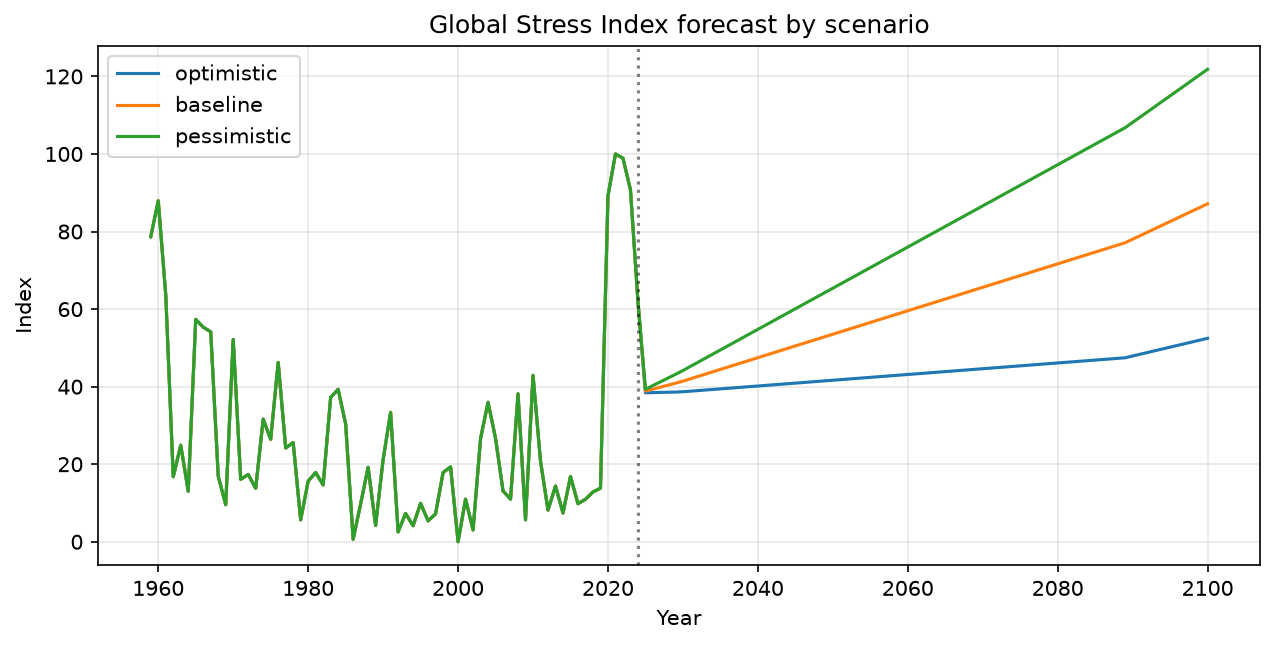
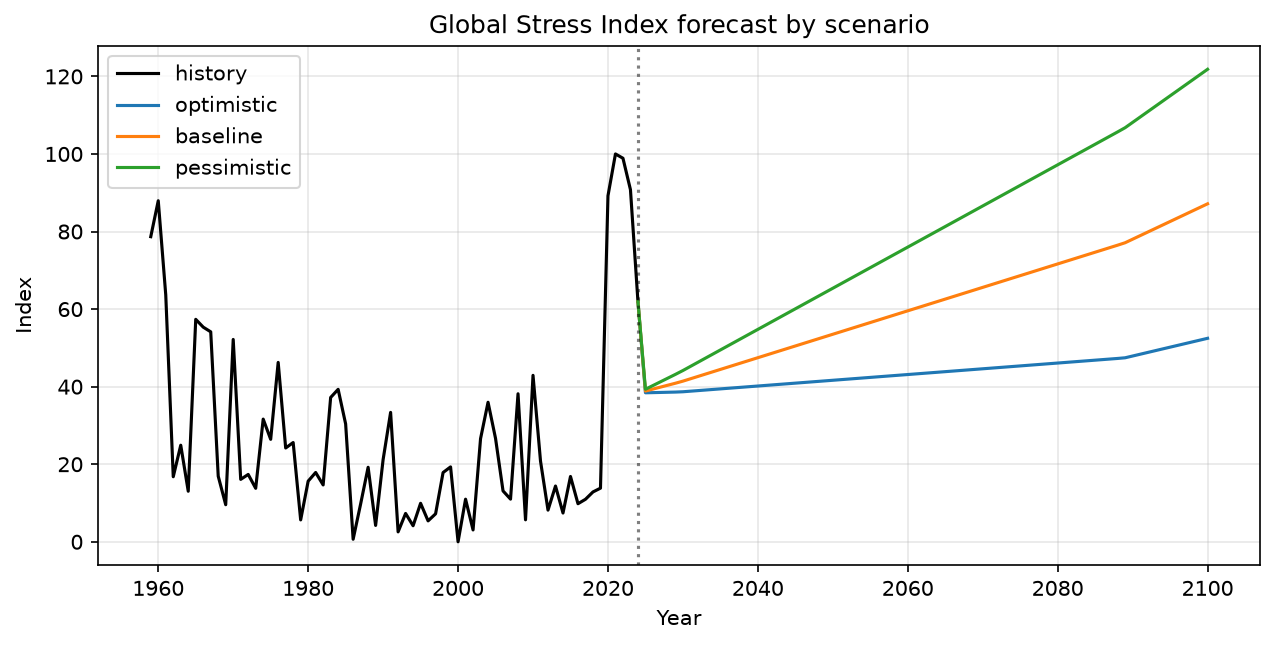
Add lable spreading, evaluation and results

diff --git a/end_of_the_world.py b/end_of_the_world.py
@@ -16,6 +16,7 @@ from sklearn.decomposition import PCA
 from sklearn.ensemble import RandomForestRegressor
 from sklearn.metrics import mean_absolute_error, mean_squared_error, silhouette_score
 from sklearn.preprocessing import StandardScaler
+from sklearn.semi_supervised import LabelSpreading
 
 DATA = Path("data")
 OUT = Path("outputs")
@@ -31,6 +32,7 @@ HORIZON = 2100                   # forecast horizon
 #               (every indicator is oriented so higher = more stress).
 #   "pca"     = one PCA over all indicators (PC1 ends up as a time trend).
 INDEX_MODE = "domains"
+SEED_SHARE = 0.20   # label spreading: share of each period that counts as a known (confident) label
 DOMAINS = {
     "climate": ["temp_anomaly", "co2_ppm", "co2_per_capita", "methane", "nitrous_oxide"],
     "mortality": ["death_rate"],
@@ -227,6 +229,51 @@ ax[0].plot(choice.k, choice.inertia, "o-"); ax[0].set(title="Elbow", xlabel="k")
 ax[1].plot(choice.k, choice.silhouette, "o-"); ax[1].set(title="Silhouette", xlabel="k")
 fig.savefig(OUT / "kmeans_choice.png", dpi=150, bbox_inches="tight")
 
+# %% 4b. Semi-supervised label spreading --------------------------------
+# Only a few years are treated as "known": the 20% of each K-means period that
+# sit closest to the middle of their group (the most confident years). All other
+# years are hidden, and label spreading has to give them a label using what the
+# four domain scores say about how similar years are.
+ls = None
+if INDEX_MODE == "domains":
+    code = {"calm": 0, "stressed": 1, "crisis": 2}
+    decode = {v: k for k, v in code.items()}
+    feat = domain_scores(df)
+    feat_scaler = StandardScaler().fit(feat)
+    F = feat_scaler.transform(feat)
+    y_km = period.map(code).values
+    y_semi = np.full(len(y_km), -1)                       # -1 = unknown
+    for lab in (0, 1, 2):
+        ids = np.where(y_km == lab)[0]
+        centre = index.values[ids].mean()
+        n_keep = max(2, int(round(SEED_SHARE * len(ids))))
+        y_semi[ids[np.argsort(np.abs(index.values[ids] - centre))[:n_keep]]] = lab
+    print(f"Known labels: {int((y_semi >= 0).sum())} of {len(y_semi)} years")
+
+    ls = LabelSpreading(kernel="knn", n_neighbors=5, alpha=0.2, max_iter=1000).fit(F, y_semi)
+    # Second model on the index value alone, used only to label FUTURE years.
+    # (History's crisis years were pandemic years; a future climate-driven crisis
+    # is a pattern the four-domain model has never seen, but its index value is comparable.)
+    ls_idx = LabelSpreading(kernel="knn", n_neighbors=5, alpha=0.2, max_iter=1000).fit(
+        index.values.reshape(-1, 1), y_semi)
+    spread = pd.Series(ls.transduction_, index=df.index).map(decode).rename("spread_label")
+    hidden = y_semi < 0
+    agree_hidden = (spread[hidden] == period[hidden]).mean()
+    print(f"Label spreading agrees with K-means on {agree_hidden:.0%} of the hidden years")
+    print(pd.crosstab(period[hidden], spread[hidden], rownames=["K-means"], colnames=["spreading"]))
+    diff = df.index[(spread != period).values]
+    print("Years where the two methods disagree:", list(diff))
+    pd.concat([index, period, spread], axis=1).to_csv(OUT / "label_spreading.csv")
+
+    fig, ax = plt.subplots(figsize=(9, 4))
+    ax.scatter(index.index, index.values, c=spread.map(colors), s=25)
+    ax.plot(index.index, index.values, color="gray", alpha=0.3)
+    known = index[y_semi >= 0]
+    ax.scatter(known.index, known.values, facecolors="none", edgecolors="black", s=70, label="known (seed) years")
+    ax.set(title="Periods found by label spreading", xlabel="Year", ylabel="Stress index")
+    ax.legend()
+    fig.savefig(OUT / "periods_label_spreading.png", dpi=150, bbox_inches="tight")
+
 # %% 5. Trend fitting: linear vs polynomial (time-based split) ----------
 tr = index[index.index <= TRAIN_END]
 te = index[index.index > TRAIN_END]
@@ -243,6 +290,27 @@ for name, deg in [("linear", 1), ("poly2", 2), ("poly3", 3)]:
 trend_table = pd.DataFrame(results, columns=["model", "MAE", "RMSE"])
 print(trend_table.round(3))
 trend_table.to_csv(OUT / "trend_errors.csv", index=False)
+
+# --- Fair evaluation: compare with naive guesses, and also without the pandemic ---
+def eval_series(series, label):
+    tr_, te_ = series[series.index <= TRAIN_END], series[series.index > TRAIN_END]
+    out = []
+    for nm, deg in [("linear", 1), ("poly2", 2), ("poly3", 3)]:
+        pr = np.polyval(np.polyfit(tr_.index - START, tr_.values, deg), te_.index - START)
+        out.append((label, nm, mean_absolute_error(te_, pr), np.sqrt(mean_squared_error(te_, pr))))
+    for nm, val in [("naive: last value", tr_.iloc[-1]), ("naive: training mean", tr_.mean())]:
+        pr = np.full(len(te_), val)
+        out.append((label, nm, mean_absolute_error(te_, pr), np.sqrt(mean_squared_error(te_, pr))))
+    return out
+
+eval_rows = eval_series(index, "full index")
+if INDEX_MODE == "domains" and "pandemic" in ds.columns:
+    s_raw = ds.drop(columns="pandemic").mean(axis=1)
+    structural = pd.Series((s_raw - s_raw.min()) / (s_raw.max() - s_raw.min()) * 100, index=df.index)
+    eval_rows += eval_series(structural, "index without pandemic")
+vs_naive = pd.DataFrame(eval_rows, columns=["target", "model", "MAE", "RMSE"])
+print(vs_naive.round(2).to_string(index=False))
+vs_naive.to_csv(OUT / "trend_vs_naive.csv", index=False)
 
 future = np.arange(START, HORIZON + 1)
 best = trend_table.sort_values("RMSE").iloc[0]["model"]
@@ -284,18 +352,27 @@ for sname, mult in SCENARIOS.items():
     s_fut = s[s.index > END]                       # peak within the forecast period only
     peak_year = int(s_fut.idxmax())
     reached_horizon = peak_year == HORIZON
+    first_crisis = "n/a"
+    if ls is not None:
+        fut_labels = pd.Series(ls_idx.predict(s.loc[future_years].values.reshape(-1, 1)),
+                               index=future_years)
+        crisis_years = fut_labels[fut_labels == 2]
+        first_crisis = int(crisis_years.index[0]) if len(crisis_years) else "none by 2100"
     peaks.append((sname, mult, peak_year, round(float(s_fut.max()), 1),
-                  round(float(s.loc[HORIZON]), 1),
+                  round(float(s.loc[HORIZON]), 1), first_crisis,
                   "no peak before horizon (still rising)" if reached_horizon else "peak"))
 
 peak_table = pd.DataFrame(peaks, columns=["scenario", "climate_slope_x", "forecast_peak_year",
-                                          "forecast_peak_value", "value_2100", "note"])
+                                          "forecast_peak_value", "value_2100",
+                                          "first_crisis_year_spreading", "note"])
 print(peak_table)
 peak_table.to_csv(OUT / "scenario_peaks.csv", index=False)
 
 fig, ax = plt.subplots(figsize=(10, 4.5))
+ax.plot(index.index, index.values, color="black", label="history")
 for sname, s in scenario_index.items():
-    ax.plot(s.index, s.values, label=sname)
+    s_f = s[s.index >= END]
+    ax.plot(s_f.index, s_f.values, label=sname)
 ax.axvline(END, color="k", ls=":", alpha=0.5)
 ax.set(title="Global Stress Index forecast by scenario", xlabel="Year", ylabel="Index")
 ax.legend(); ax.grid(alpha=0.3)
